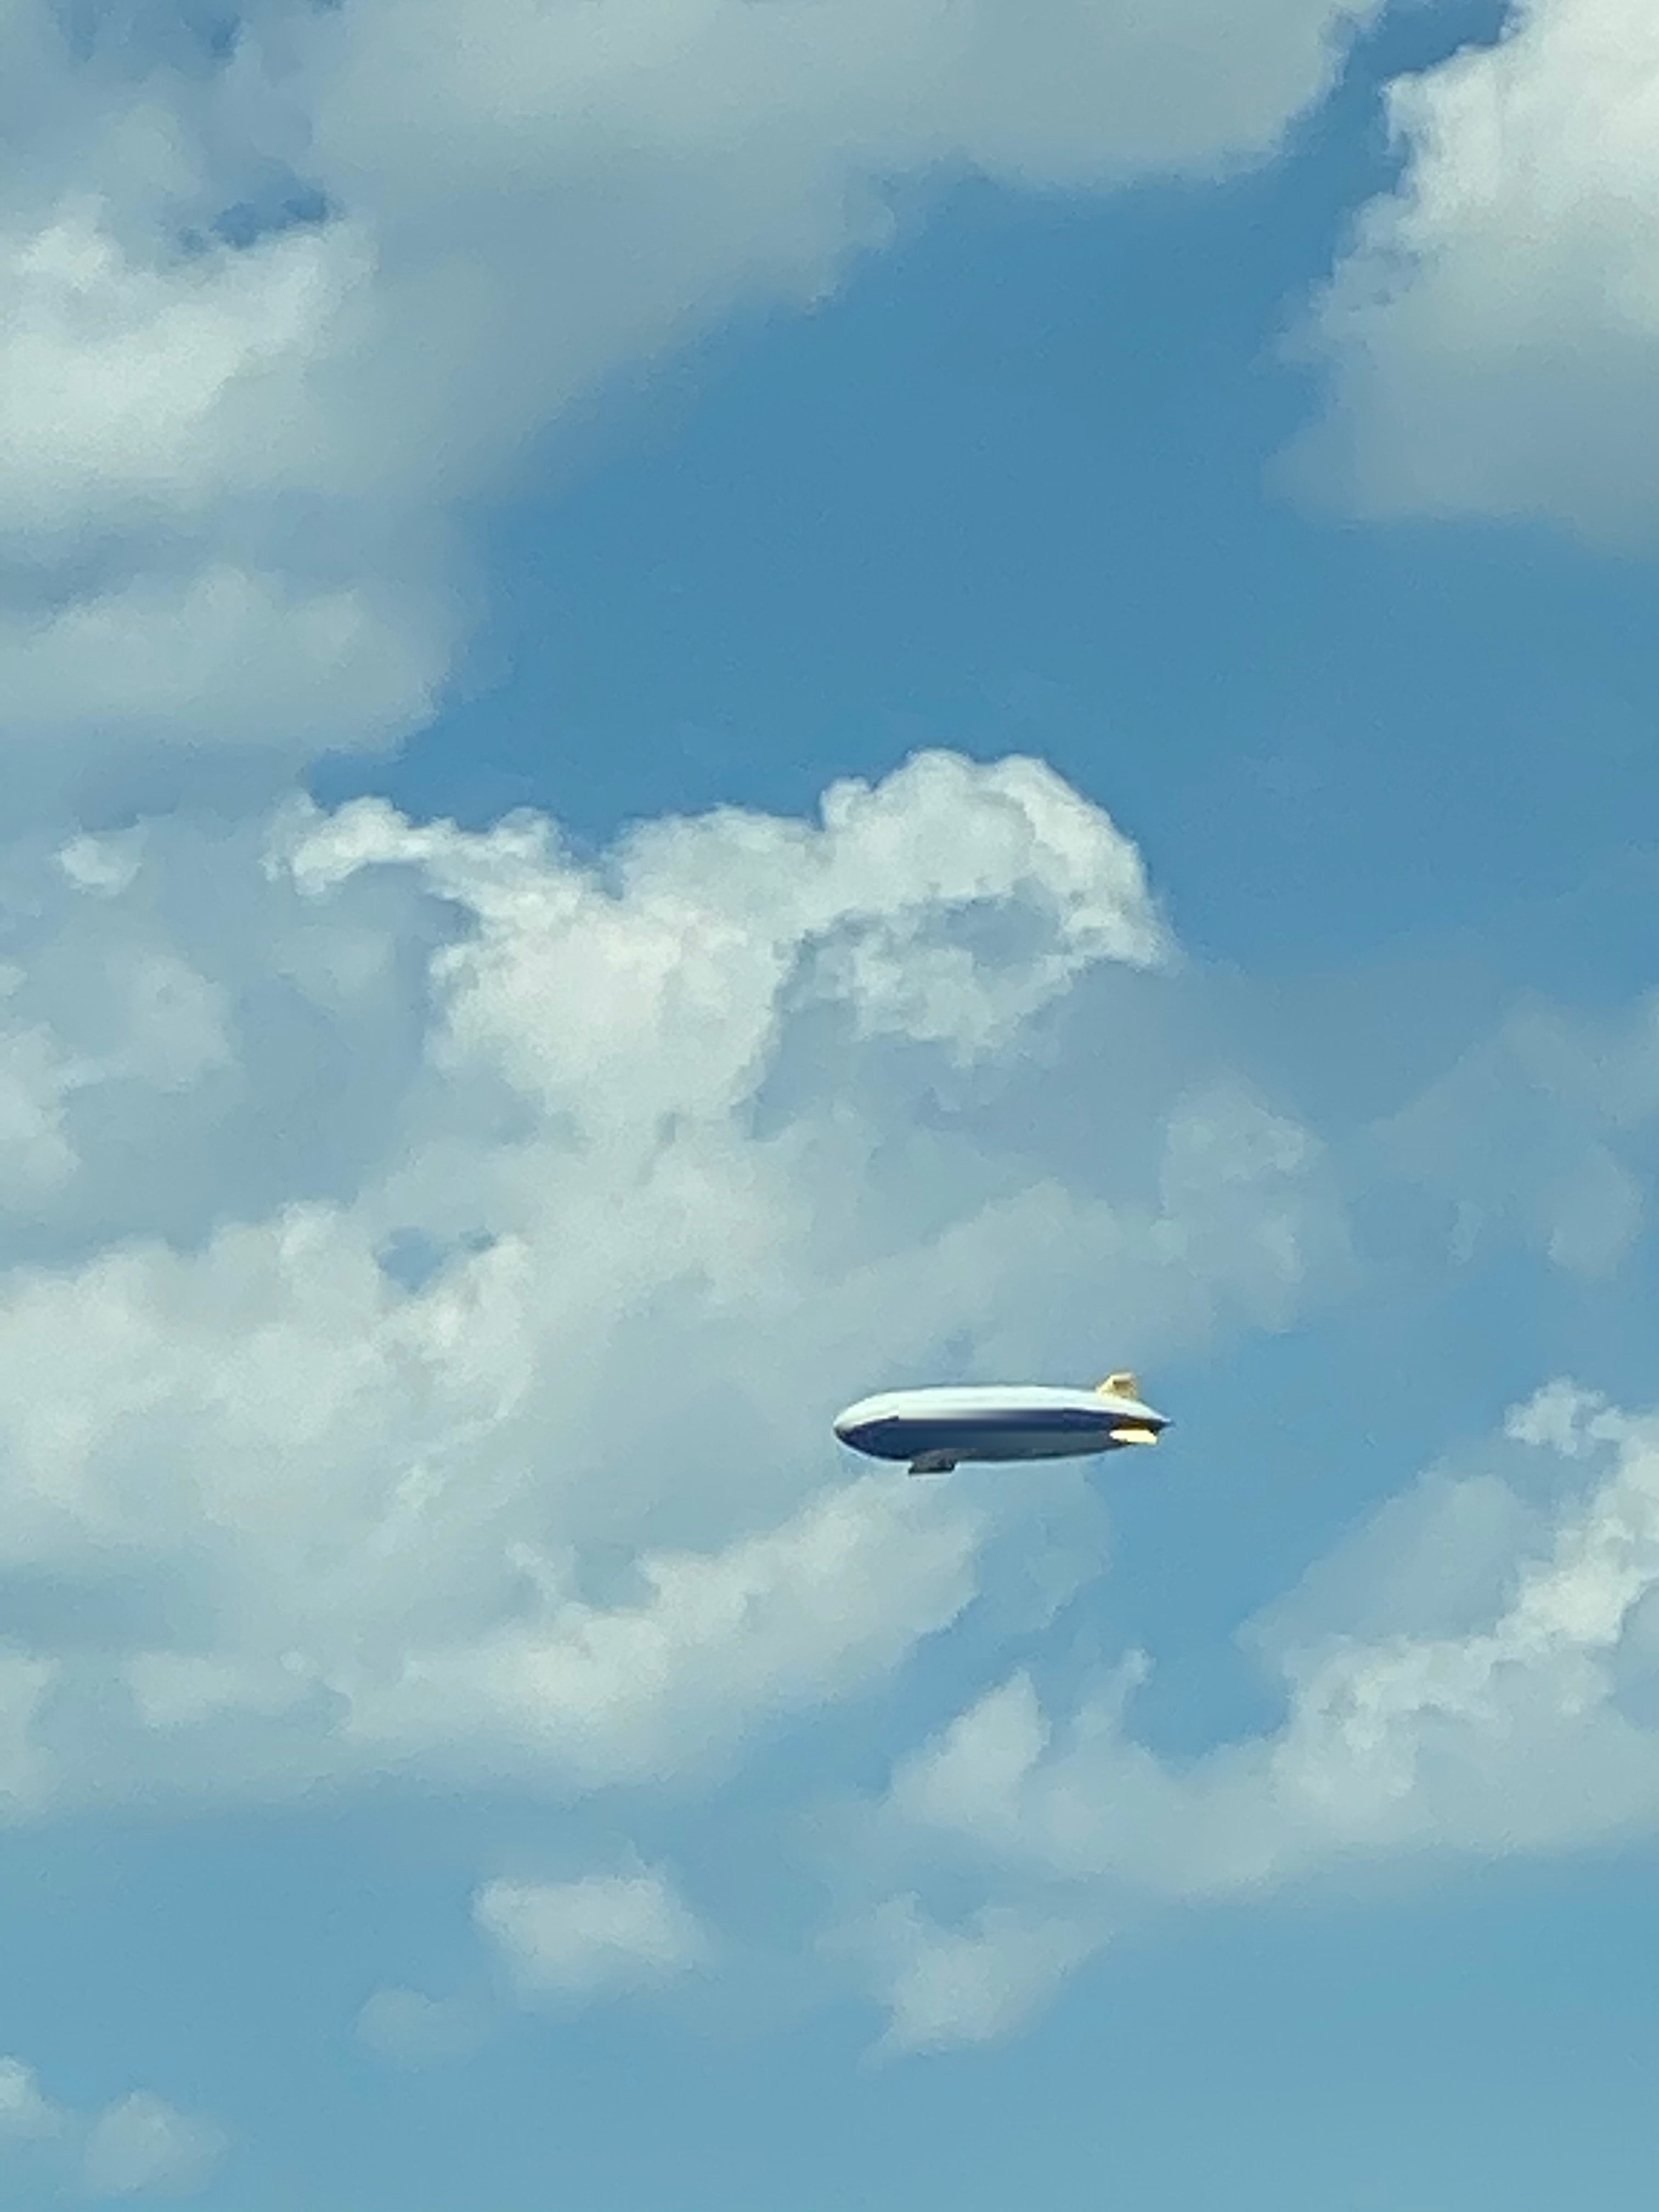
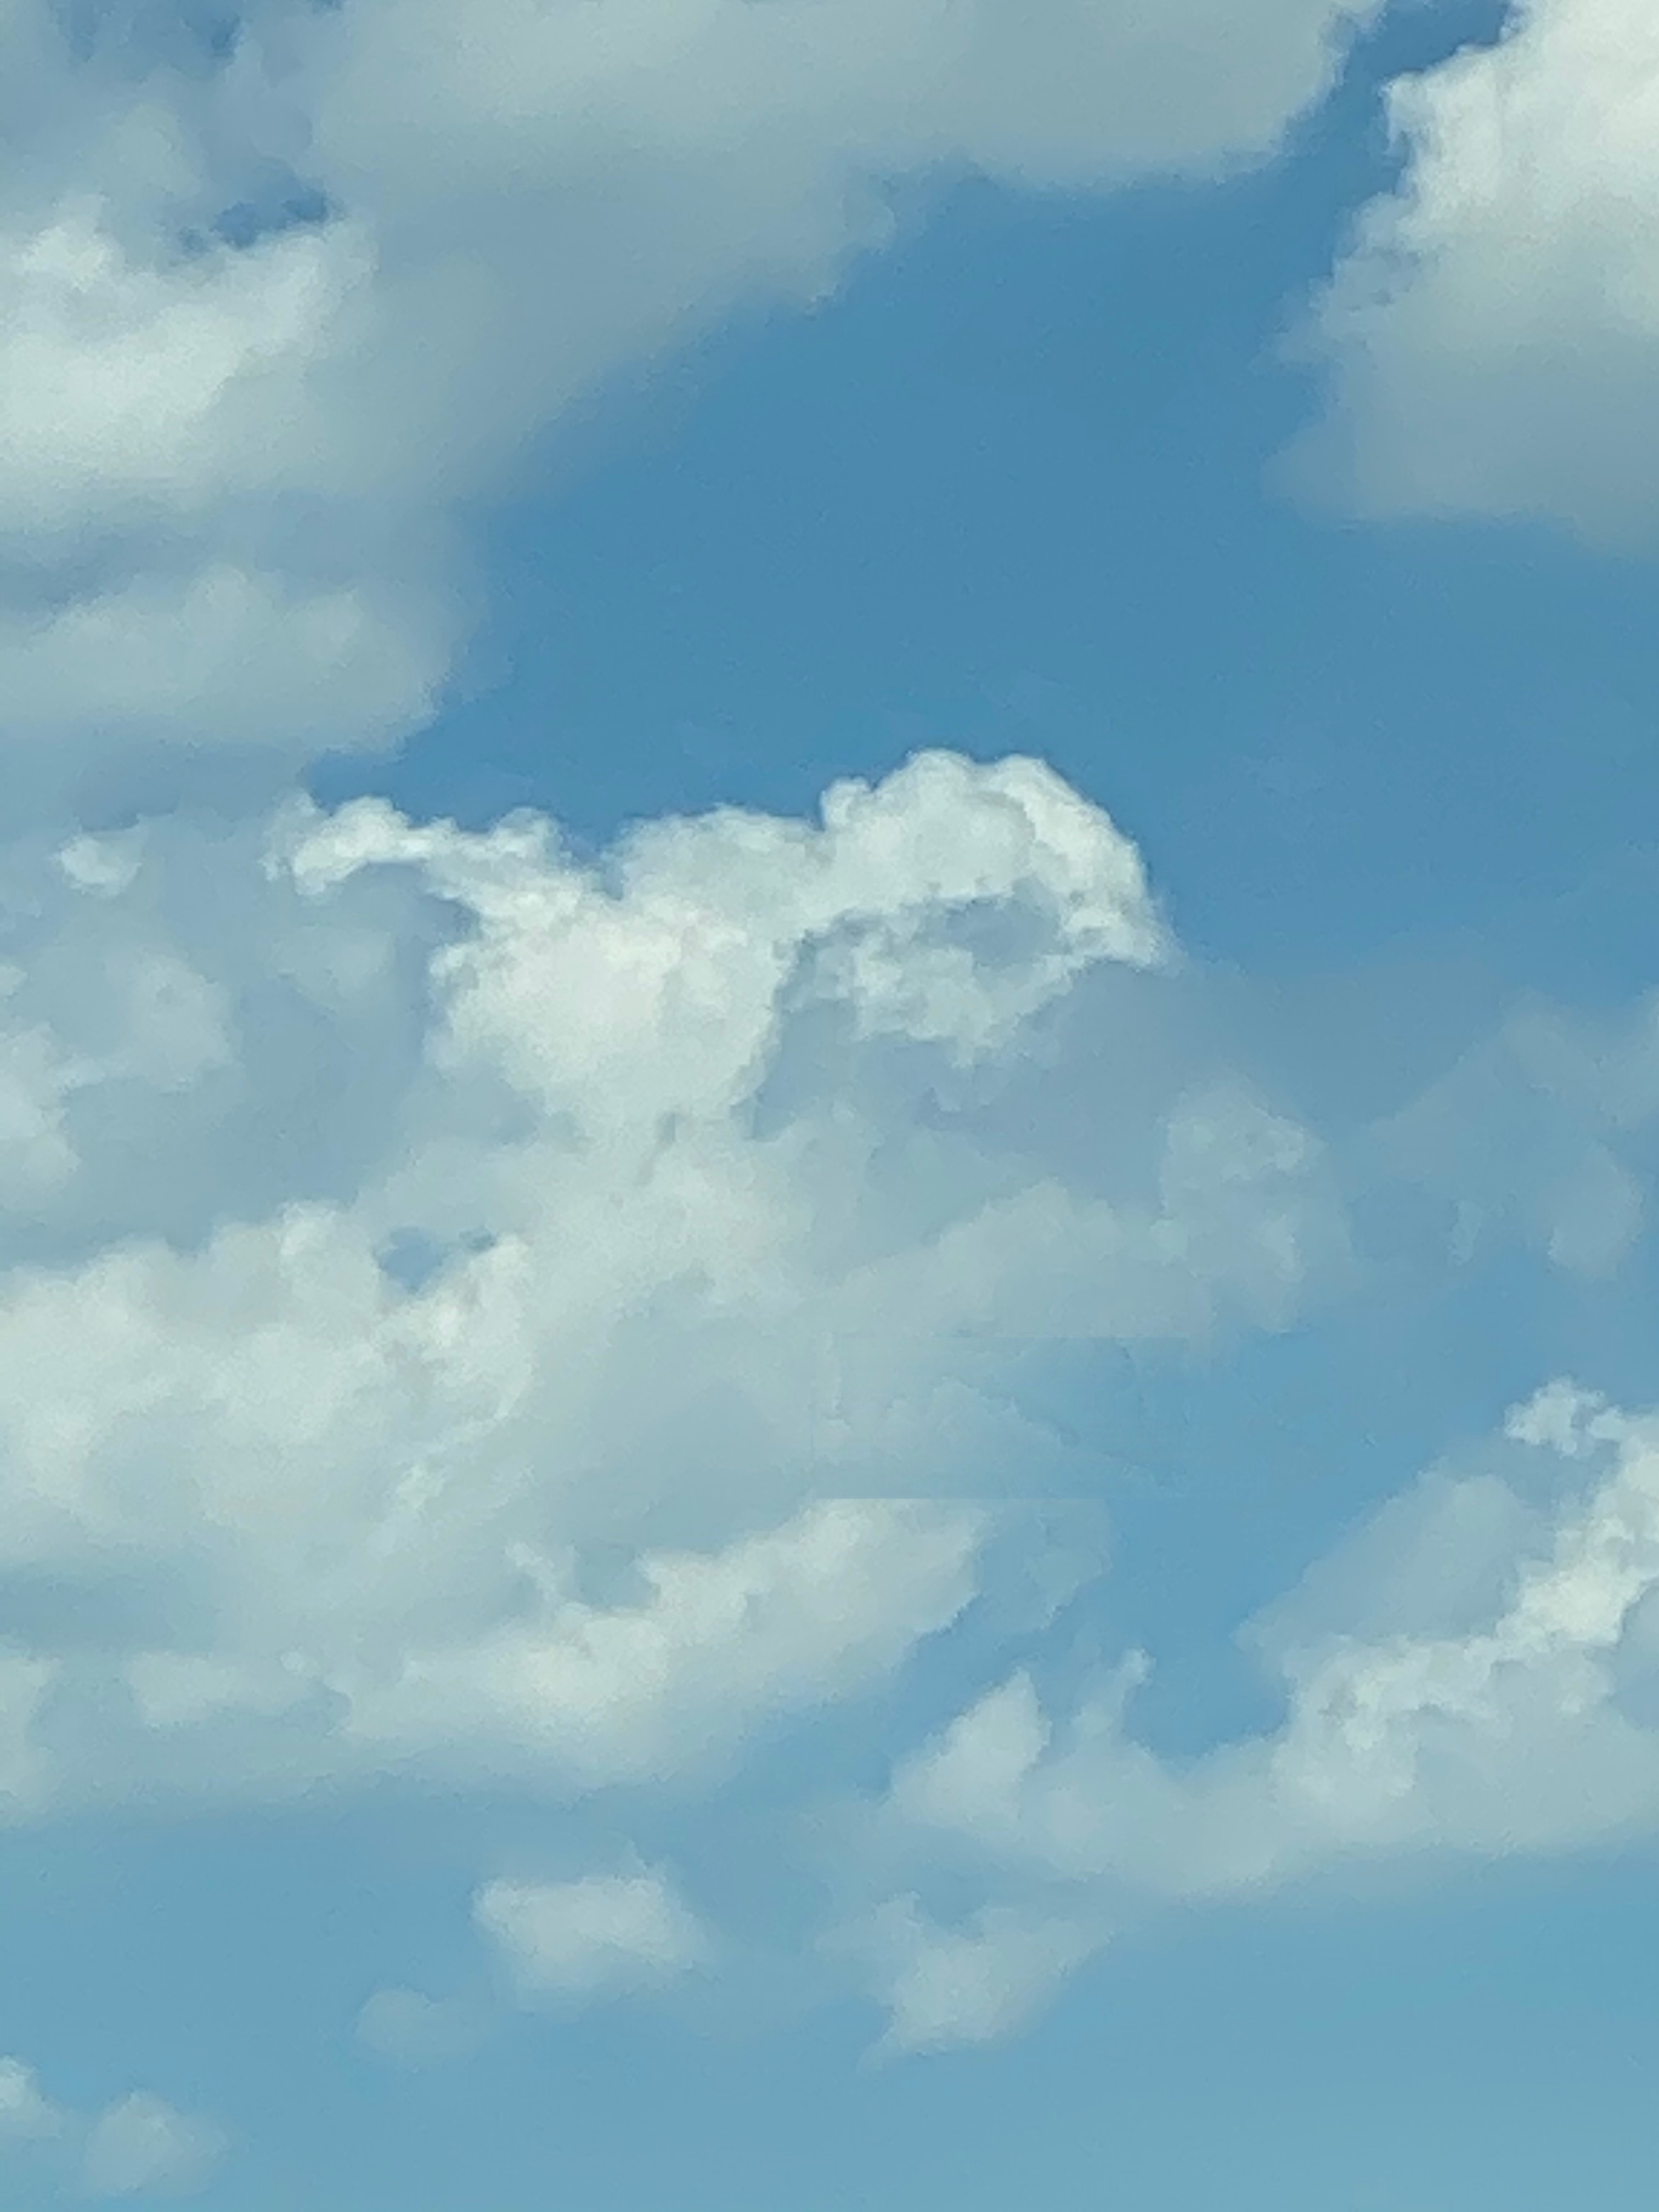
Remove the blimp entirely: sprite gone, painted out of sky photo, clamp removed

Changed region(s): [[0.4974, 0.5938, 0.7149, 0.6875]]

diff --git a/shared.css b/shared.css
@@ -165,30 +165,6 @@ nav {
 
 .hero-inner { position: relative; z-index: 1; }
 
-/* ── BLIMP ── */
-.blimp-wrap {
-  position: absolute;
-  right: 7%;
-  bottom: 4%;
-  width: clamp(240px, 28vw, 440px);
-  z-index: 0;
-  pointer-events: none;
-  will-change: transform;
-  filter: drop-shadow(0 10px 24px rgba(13,31,53,0.25));
-}
-
-.blimp {
-  display: block;
-  width: 100%;
-}
-
-@media (prefers-reduced-motion: no-preference) {
-  @keyframes blimp-bob {
-    0%, 100% { transform: translateY(0); }
-    50%      { transform: translateY(-10px); }
-  }
-  .blimp { animation: blimp-bob 6.5s ease-in-out infinite; }
-}
 
 .hero-inner {
   max-width: var(--max-w);
@@ -728,7 +704,6 @@ footer {
   }
 
   .hero { min-height: auto; background-size: cover; background-position: center bottom; }
-  .blimp-wrap { display: none; }
   .hero-inner { padding: 72px 24px 64px; }
   .services-grid, .approach-grid { grid-template-columns: 1fr; }
   .form-row { grid-template-columns: 1fr; }

diff --git a/index.html b/index.html
@@ -20,7 +20,7 @@
   <link rel="preconnect" href="https://fonts.googleapis.com" />
   <link rel="preconnect" href="https://fonts.gstatic.com" crossorigin />
   <link href="https://fonts.googleapis.com/css2?family=Cormorant+Garamond:ital,wght@0,400;0,500;0,600;1,400;1,500&family=Hanken+Grotesk:wght@300;400;500;600&display=swap" rel="stylesheet" />
-  <link rel="stylesheet" href="shared.css" />
+  <link rel="stylesheet" href="shared.css?v=2" />
 </head>
 <body>
 
@@ -38,7 +38,6 @@
 
 <main>
   <section class="hero">
-    <div class="blimp-wrap"><img class="blimp" src="blimp.png" alt="The Goodyear blimp drifting across a blue sky"></div>
     <div class="hero-inner">
       <div>
         <p class="hero-eyebrow">Psychotherapy · Columbus, Ohio · Telehealth statewide</p>
@@ -95,37 +94,28 @@
 </footer>
 
 <script>
-  // Scroll parallax: the sky pans gently and the blimp sprite rises as you
-  // scroll. The background is clamped so the blimp baked into the photo
-  // stays below the viewport — the floating sprite is the only blimp seen.
+  // Scroll parallax: the sky pans gently as you scroll.
   (function () {
     if (window.matchMedia('(prefers-reduced-motion: reduce)').matches) return;
     var hero = document.querySelector('.hero');
-    var wrap = document.querySelector('.blimp-wrap');
-    if (!hero || !wrap) return;
-    var PHOTO_W = 3024, PHOTO_H = 4032, ZOOM = 1.3, BLIMP_Y = 0.632;
+    if (!hero) return;
+    var PHOTO_W = 3024, PHOTO_H = 4032, ZOOM = 1.3;
     var GLIDE = 0.02; // per-frame chase rate — smaller = slower drift
     var pa = 0, running = false;
     function frame() {
       var w = window.innerWidth, h = window.innerHeight;
       var max = document.documentElement.scrollHeight - h;
       var p = max > 0 ? Math.min(1, window.scrollY / max) : 0;
-      // drift the animated progress toward the scroll target very slowly,
-      // so the blimp glides in over a few seconds instead of snapping
       pa += (p - pa) * GLIDE;
       if (Math.abs(p - pa) < 0.001) { pa = p; running = false; }
       if (w > 820) {
         var bgH = w * ZOOM / PHOTO_W * PHOTO_H;
         var slack = Math.max(0, bgH - hero.offsetHeight);
-        var tAllowed = Math.max(0, BLIMP_Y * bgH - hero.offsetHeight - 60);
-        var t0 = Math.min(0.3 * slack, tAllowed);
-        var t1 = Math.min(0.7 * slack, tAllowed);
+        var t0 = 0.3 * slack;
+        var t1 = 0.7 * slack;
         hero.style.backgroundPosition = 'left ' + (-(t0 + pa * (t1 - t0))) + 'px';
-        var travel = wrap.offsetHeight + 0.06 * h;
-        wrap.style.transform = 'translateY(' + ((1 - pa) * travel) + 'px)';
       } else {
         hero.style.backgroundPosition = '';
-        wrap.style.transform = '';
         running = false;
       }
       if (running) requestAnimationFrame(frame);